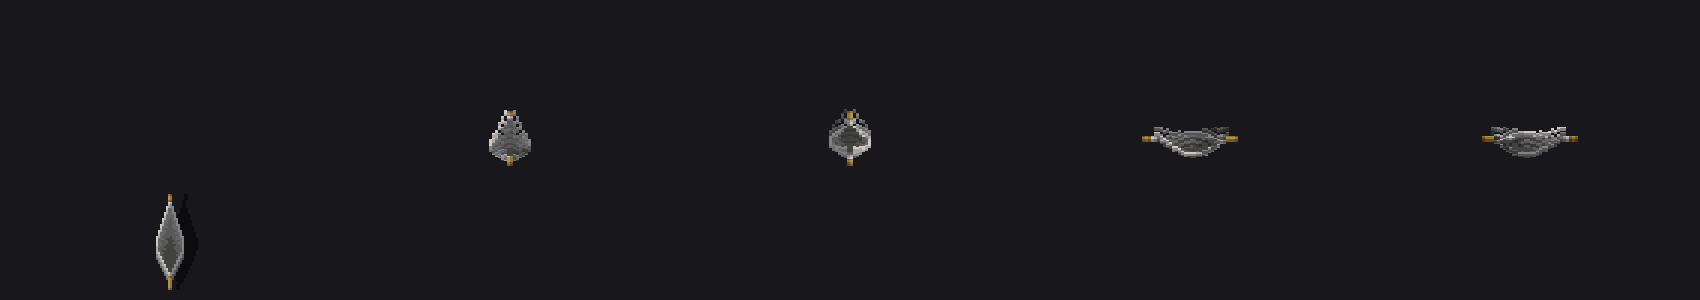
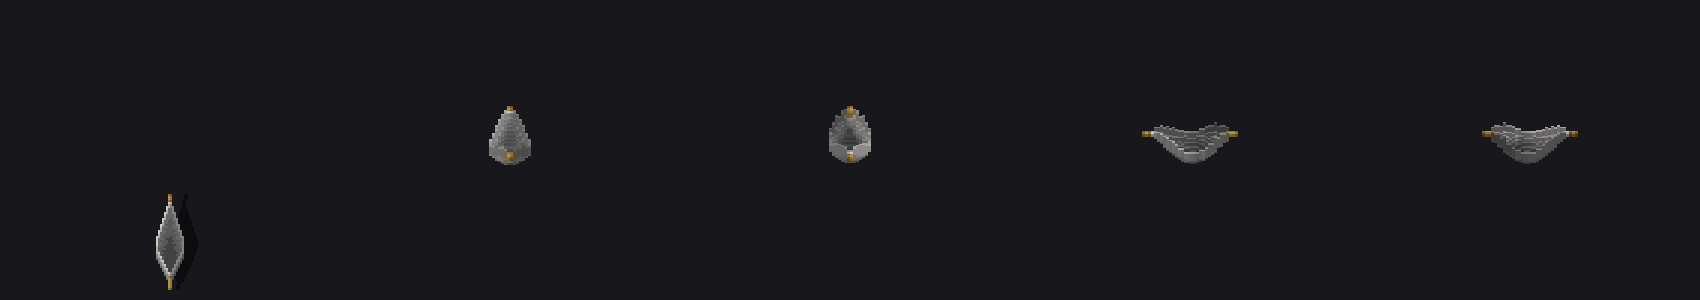
Hammock v2: deep canoe section (sag 9, curl 5), smoothed cloth paint, skirt-filled sheet (no see-through steps)

diff --git a/crates/voxelizer/src/props.rs b/crates/voxelizer/src/props.rs
@@ -3611,7 +3611,7 @@ fn orrery_model(sprite: &RgbaImage) -> Option<PropModel> {
 /// across its width (a trough section, +3 at the
 /// edges). The sprite's 48-row length scales onto the
 /// tile's 32 in z; the ropes run to the tile edges.
-fn hammock_model(sprite: &RgbaImage) -> Option<PropModel> {
+fn hammock_model(sprite: &RgbaImage, net: bool) -> Option<PropModel> {
     let (w, h) = (sprite.width(), sprite.height());
     let extent = |r: u32| -> Option<(u32, u32)> {
         let xs: Vec<u32> = (0..w)
@@ -3629,26 +3629,88 @@ fn hammock_model(sprite: &RgbaImage) -> Option<PropModel> {
         .filter(|&r| extent(r).map_or(false, |(a, b)| b - a + 1 >= 4))
         .collect();
     let (f0, f1) = (fabric.first()?, fabric.last()?);
-    let mut m = PropModel::new([w, 16, 32]);
+    // Cloth paint is smoothed over the source 3x3 (the
+    // sprite's per-pixel weave noise read as lumps on a
+    // 1-cell sheet -- Joey: "these look really bad",
+    // 2026-11-17). The net keeps its raw checkerboard:
+    // the checker IS the pattern.
+    let paint = |x: u32, r: u32| -> Rgba<u8> {
+        let px = *sprite.get_pixel(x, r);
+        if net {
+            return px;
+        }
+        let (mut sr, mut sg, mut sb, mut n) = (0u32, 0u32, 0u32, 0u32);
+        for dy in -1i32..=1 {
+            for dx in -1i32..=1 {
+                let (nx, ny) = (x as i32 + dx, r as i32 + dy);
+                if nx >= 0 && ny >= 0 && (nx as u32) < w && (ny as u32) < h {
+                    let q = *sprite.get_pixel(nx as u32, ny as u32);
+                    if opaque(q) {
+                        sr += q.0[0] as u32;
+                        sg += q.0[1] as u32;
+                        sb += q.0[2] as u32;
+                        n += 1;
+                    }
+                }
+            }
+        }
+        if n == 0 {
+            px
+        } else {
+            Rgba([(sr / n) as u8, (sg / n) as u8, (sb / n) as u8, 255])
+        }
+    };
+    // Heightfield first, then a skirt fill: the deep
+    // canoe slopes step by up to 2 between neighbours,
+    // and a 1-cell sheet with steps > 1 has see-through
+    // gaps at angle views. Each column fills down to its
+    // lowest neighbour's surface, so the sheet is
+    // continuous from every angle.
+    let mut top: std::collections::HashMap<(u32, u32), (u32, Rgba<u8>)> =
+        std::collections::HashMap::new();
     for z in 0..32u32 {
         let r = (z * (h - 1)) / 31;
         let (a, b) = extent(r)?;
         if fabric.contains(&r) {
             let t = (r - f0) as f32 / (f1 - f0) as f32;
-            let cy = 12.0 - 5.0 * (std::f32::consts::PI * t).sin();
+            // Deep shapes, second pass: the first build's
+            // +3 curl and 5 sag read as a flat lumpy
+            // plank. A hammock bed is a canoe: center
+            // sags 9 below the ends, edges curl 5 up
+            // (flattening toward the gathered ends).
+            let cy = 14.0 - 9.0 * (std::f32::consts::PI * t).sin();
             let cx = (a + b) as f32 / 2.0;
             let hw = ((b - a) as f32 / 2.0).max(1.0);
+            let curl_scale = (((b - a + 1) as f32) / 10.0).min(1.0);
             for x in a..=b {
-                let curl = 3.0 * ((x as f32 - cx) / hw).powi(2);
+                let u = ((x as f32 - cx) / hw).abs();
+                let curl = 5.0 * u.powf(2.5) * curl_scale;
                 let y = (cy + curl).round() as u32;
-                m.set(x, y, z, Some(*sprite.get_pixel(x, r)));
+                top.insert((x, z), (y, paint(x, r)));
             }
         } else {
             // Suspension rope: the row's own pixels at
-            // rope height.
+            // rope height (meets the fabric ends at 14).
             for x in a..=b {
-                m.set(x, 12, z, Some(*sprite.get_pixel(x, r)));
+                top.insert((x, z), (14, *sprite.get_pixel(x, r)));
             }
+        }
+    }
+    let mut m = PropModel::new([w, 16, 32]);
+    let keys: Vec<(u32, u32)> = top.keys().copied().collect();
+    for (x, z) in keys {
+        let (y, c) = top[&(x, z)];
+        let mut lo = y;
+        for (dx, dz) in [(1i32, 0i32), (-1, 0), (0, 1), (0, -1)] {
+            let n = (x as i32 + dx, z as i32 + dz);
+            if n.0 >= 0 && n.1 >= 0 {
+                if let Some((ny, _)) = top.get(&(n.0 as u32, n.1 as u32)) {
+                    lo = lo.min(*ny);
+                }
+            }
+        }
+        for yy in lo..=y {
+            m.set(x, yy, z, Some(c));
         }
     }
     if m.solid_count() == 0 {
@@ -3752,7 +3814,7 @@ pub fn coverage_model(id: &str, sprite: &RgbaImage) -> Option<PropModel> {
         }
     }
     if id == "f_hammock" || id == "f_hammock_net" {
-        if let Some(m) = hammock_model(sprite) {
+        if let Some(m) = hammock_model(sprite, id == "f_hammock_net") {
             return Some(m);
         }
     }
